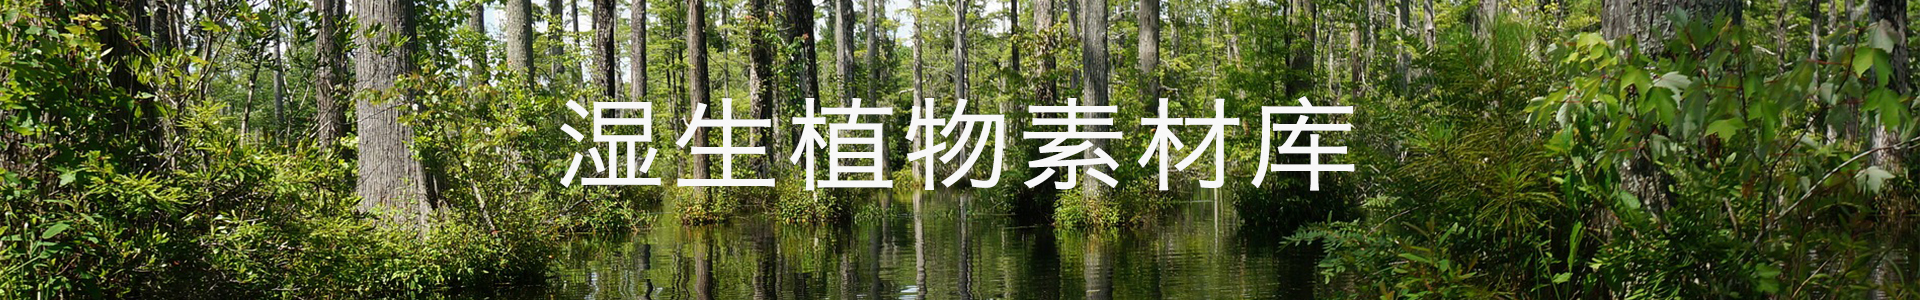
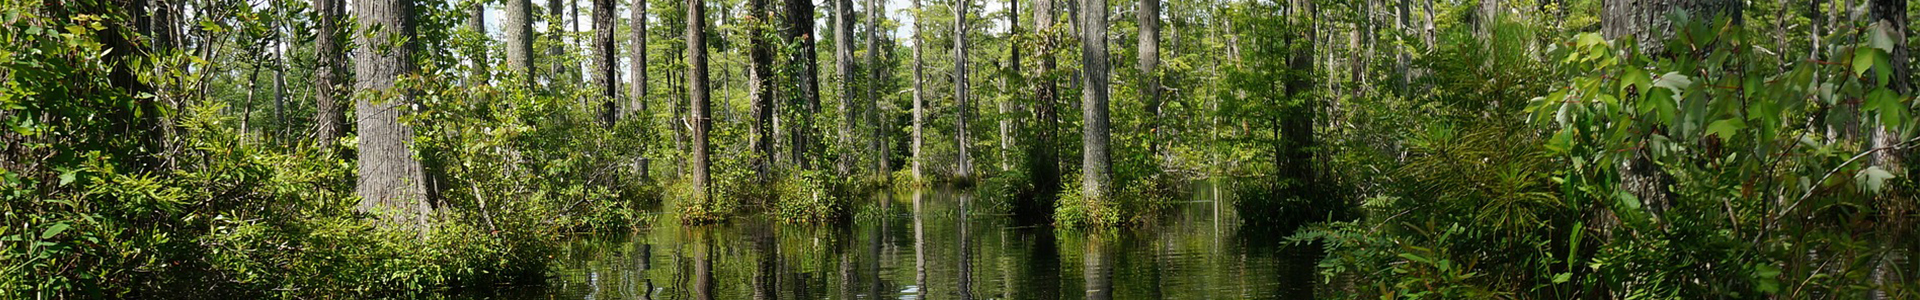
git-svn-id: https://39.108.144.9:8443/svn/shishui@5 617f0b76-4dec-2946-aed7-4eb11ec04044

Changed region(s): [[0.2812, 0.33, 0.7188, 0.63]]

diff --git a/plants/templates/pc/default/common/header.html b/plants/templates/pc/default/common/header.html
@@ -7,7 +7,13 @@
     <script src="{HOME_THEME_PATH}js/jquery-1.8.3.min.js"></script>
 </head>
 <body>
-        <div class="head"></div>
+        <div class="main1">
+            <div class="head">
+                <div>
+                    <p>湿生植物素材库</p>
+                </div>
+            </div>
+        </div>
         <div class="main">
             <div class="select" id="select">
                     <script >
@@ -212,7 +218,7 @@
                         <li><a href="javascript:;" id="shx" class="{$value}">{$name}</a></li>
                         {/loop}
                     </ul>
-                    <ul class="list" id="select2">
+                    <ul class="list fl" id="select2">
                         <li>湿地类型：</li>
                         <li class="select-all selected"><a href="javascript:;" <?php if (!isset($_GET['sdlx'])):?> style="background: #10ac5f;color: #FFF"<?php endif;?> >全部</a></li>
                         {php $field = dr_field_options('sdlx','1','news');} 
@@ -221,7 +227,7 @@
                         {/loop}
                     </ul>
 
-                    <ul class="list" id="select3">
+                    <ul class="list fl" id="select3">
                         <li>污水类型：</li>
                         <li class="select-all selected"><a href="javascript:;" <?php if (!isset($_GET['wslxx'])):?> style="background: #10ac5f;color: #FFF"<?php endif;?> >全部</a></li>
                         {php $field = dr_field_options('wslxx','1','news');} 
@@ -229,7 +235,7 @@
                         <li><a href="javascript:;" id="wslxx" class="{$value}">{$name}</a></li>
                         {/loop}
                     </ul>
-                    <ul class="list" id="select4">
+                    <ul class="list fl" id="select4">
                         <li>观赏特性：</li>
                         <li class="select-all selected"><a href="javascript:;" <?php if (!isset($_GET['gstxx'])):?> style="background: #10ac5f;color: #FFF"<?php endif;?> >全部</a></li>
                         {php $field = dr_field_options('gstxx','1','news');} 
@@ -237,7 +243,7 @@
                         <li><a href="javascript:;" id="gstxx" class="{$value}">{$name}</a></li>
                         {/loop}
                     </ul>
-                    <ul class="list" id="select5">
+                    <ul class="list fl" id="select5">
                         <li>季象：</li>
                         <li class="select-all selected"><a href="javascript:;" <?php if (!isset($_GET['jx'])):?> style="background: #10ac5f;color: #FFF"<?php endif;?> >全部</a></li>
                         {php $field = dr_field_options('jx','1','news');} 
@@ -245,7 +251,7 @@
                         <li><a href="javascript:;" id="jx" class="{$value}">{$name}</a></li>
                         {/loop}
                     </ul>
-                    <ul class="list" id="select6">
+                    <ul class="list fl" id="select6">
                         <li>水深范围：</li>
                         <li class="select-all selected"><a href="javascript:;" <?php if (!isset($_GET['ssfww'])):?> style="background: #10ac5f;color: #FFF"<?php endif;?> >全部</a></li>
                         {php $field = dr_field_options('ssfww','1','news');} 
@@ -253,7 +259,7 @@
                         <li><a href="javascript:;" id="ssfww" class="{$value}">{$name}</a></li>
                         {/loop}
                     </ul>
-                    <ul class="list" id="select7">
+                    <ul class="list fl" id="select7">
                         <li>气候类型：</li>
                         <li class="select-all selected"><a href="javascript:;" <?php if (!isset($_GET['qhlx'])):?> style="background: #10ac5f;color: #FFF"<?php endif;?> >全部</a></li>
                         {php $field = dr_field_options('qhlx','1','news');} 

diff --git a/plants/statics/default/css/style.css b/plants/statics/default/css/style.css
@@ -2,24 +2,28 @@
 ul{ list-style: none; }
 li{float: left;}
 a{color: #333;text-decoration: none;}
-.head{ width: 100%;height: 250px;overflow: hidden;background: url(../images/banner.jpg) no-repeat center; border-bottom: 2px #EEE solid;}
+.head{ width: 100%;height: 150px;overflow: hidden;background: url(../images/banner.jpg) no-repeat center; border-bottom: 2px #EEE solid;margin: 0 auto;}
+.head div{ width: 300px; height: 50px;text-align: center;margin: 0 auto; }
+.head p{ font-size: 40px; color: #FFF;position: relative;top:50%;transform:translateY(25%); }
 .main{ width: 1200px; margin:20px auto;overflow: hidden;}
+.main1{ width: 1200px; overflow: hidden;margin: 0 auto;}
 .select{ width: 1200px;overflow: hidden; margin-top: 10px; border-bottom: #EEE 1px solid; font-size: 18px;}
 .list{ margin-top:10px;margin-left: 20px; height: 32px;}
+.list li:nth-of-type(1){ font-weight: bold;width: 110px}
 .list li:nth-of-type(2){ width: 70px;}
-.select li{width: 120px;line-height: 18px; font-size: 18px;}
+.fl{float: left; width: 580px;}
+.select li{width: 90px;line-height: 18px; font-size: 18px;}
 .select li>a{font-size: 18px;}
 .select a{padding:3px;}
 .select a:hover {cursor: pointer;}
 .img-list p:hover{color: #10ac5f; cursor: pointer;}
 .content{margin:10px auto; width: 100%; margin-bottom: 20px;}
-.img-list{ border-bottom: #EEE 1px solid; height: 342px; margin-top: 20px; margin-bottom: 10px; overflow: hidden;width: 400px;float: left;}
-.img-list img{ width: 360px; height: 300px; margin-left: 20px;margin-right: 20px; }
+.img-list{ border-bottom: #EEE 1px solid; height: 220px; margin-top: 20px; margin-bottom: 10px; overflow: hidden;width: 200px;float: left;}
+.img-list img{ width: 180px; height: 180px; margin-left: 10px;margin-right: 10px; }
 .img-list p { width: 100%;height: 32px;text-align: center;line-height: 32px; }
-.num{ width: 100%;margin-top: 40px;}
+.num{ width: 1200px;margin-top: 10px;float: left;}
 .num ul{ width: 260px; height: 40px; margin:0 auto}
-.num li{ width: 40px;height: 40px; line-height: 40px; text-align: center;margin: 5px 5px;border: 1px #EEE solid;  }
-.num a{ width: 40px;height: 40px; padding: 10px 13px; }
+.num li{ width: 40px;height: 40px; line-height: 40px; border: 1px #EEE solid;text-align: center;margin: 5px 5px;  }
 .num li:hover{ background: #10ac5f;color: #FFF;cursor: pointer; }
 .active{background: #10ac5f;color: #FFF;}
 .active a{color: #FFF;}

diff --git a/plants/templates/pc/default/common/index.html b/plants/templates/pc/default/common/index.html
@@ -1,6 +1,6 @@
 {template "header.html"}
 		<div class="content" id="content">
-		{list action=module module=news catid=$catid page=1 pagesize=9 urlrule=index.php?page=[page] order=displayorder,updatetime}
+		{list action=module module=news catid=$catid page=1 pagesize=12 urlrule=index.php?page=[page] order=displayorder,updatetime}
 			<ul class="img-list">
 				<li>
 					<img src="{dr_get_file($t.thumb)}" alt="">
